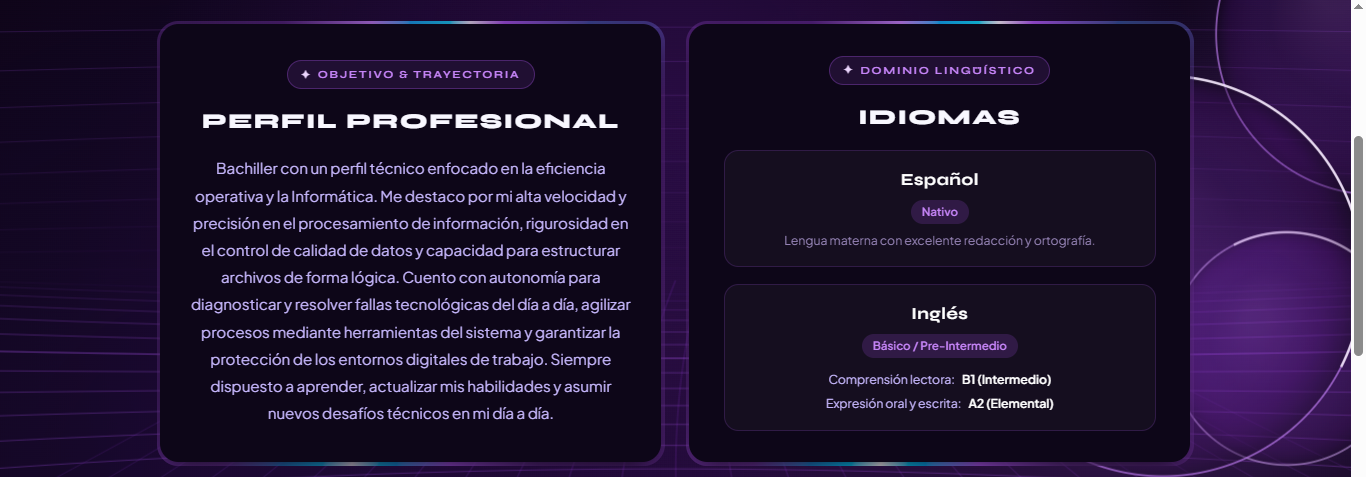
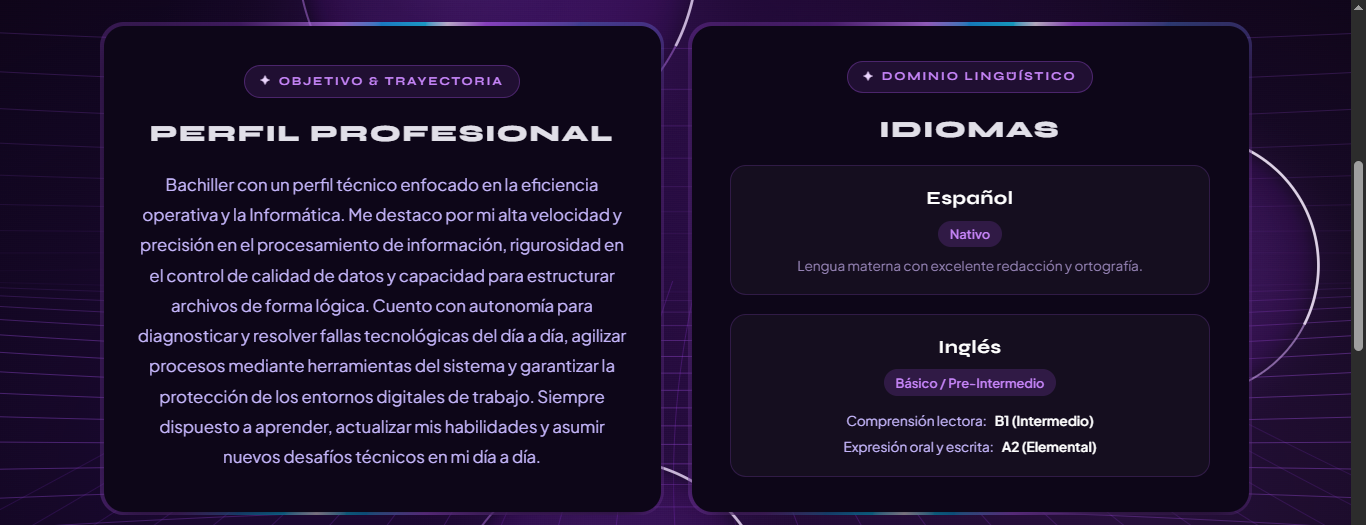
feat: agregar boton de LinkedIn en portfolio y CV, y quitar boton duplicado de descargar en CV

diff --git a/cv.html b/cv.html
@@ -91,6 +91,12 @@
             </svg>
             <span>github.com/thiago-quinteros</span>
           </a>
+          <a href="https://www.linkedin.com/in/thiago-quinteros-07b384378/" class="contact-item" title="Ver perfil de LinkedIn" target="_blank" rel="noopener noreferrer">
+            <svg class="icon-svg" viewBox="0 0 24 24" fill="currentColor">
+              <path d="M19 3a2 2 0 0 1 2 2v14a2 2 0 0 1-2 2H5a2 2 0 0 1-2-2V5a2 2 0 0 1 2-2h14m-.5 15.5v-5.3a3.26 3.26 0 0 0-3.26-3.26c-.85 0-1.84.52-2.28 1.3v-1.11h-2.79v8.37h2.79v-4.93c0-.77.62-1.4 1.39-1.4a1.4 1.4 0 0 1 1.4 1.4v4.93h2.75M6.46 10.9v8.37H9.2V10.9H6.46M7.83 6.45a1.66 1.66 0 0 0-1.66 1.66 1.66 1.66 0 0 0 1.66 1.66 1.66 1.66 0 0 0 1.66-1.66 1.66 1.66 0 0 0-1.66-1.66Z"/>
+            </svg>
+            <span>linkedin.com/in/thiago-quinteros</span>
+          </a>
           <a href="mailto:thiagoqfacultad@gmail.com" class="contact-item" title="Enviar correo">
             <svg class="icon-svg" viewBox="0 0 24 24" fill="none" stroke="currentColor" stroke-width="2" stroke-linecap="round" stroke-linejoin="round">
               <rect width="20" height="16" x="2" y="4" rx="2"></rect>
@@ -99,15 +105,6 @@
             <span>thiagoqfacultad@gmail.com</span>
           </a>
         </div>
-        <!-- Botón funcional y visible para descargar el CV en PDF -->
-        <button onclick="window.print()" class="btn-header-pdf" title="Descargar este Currículum en PDF">
-          <svg class="icon-svg" style="color: #ffffff; width: 12px; height: 12px;" viewBox="0 0 24 24" fill="none" stroke="currentColor" stroke-width="2" stroke-linecap="round" stroke-linejoin="round">
-            <path d="M21 15v4a2 2 0 0 1-2 2H5a2 2 0 0 1-2-2v-4"></path>
-            <polyline points="7 10 12 15 17 10"></polyline>
-            <line x1="12" y1="15" x2="12" y2="3"></line>
-          </svg>
-          <span>Descargar PDF</span>
-        </button>
       </div>
     </header>
 

diff --git a/index.html b/index.html
@@ -167,6 +167,13 @@
               <span>GitHub</span>
             </a>
 
+            <a href="https://www.linkedin.com/in/thiago-quinteros-07b384378/" target="_blank" rel="noopener noreferrer" class="btn-secondary" title="Ver perfil de LinkedIn de Thiago Quinteros">
+              <svg class="btn-icon" viewBox="0 0 24 24" fill="currentColor">
+                <path d="M19 3a2 2 0 0 1 2 2v14a2 2 0 0 1-2 2H5a2 2 0 0 1-2-2V5a2 2 0 0 1 2-2h14m-.5 15.5v-5.3a3.26 3.26 0 0 0-3.26-3.26c-.85 0-1.84.52-2.28 1.3v-1.11h-2.79v8.37h2.79v-4.93c0-.77.62-1.4 1.39-1.4a1.4 1.4 0 0 1 1.4 1.4v4.93h2.75M6.46 10.9v8.37H9.2V10.9H6.46M7.83 6.45a1.66 1.66 0 0 0-1.66 1.66 1.66 1.66 0 0 0 1.66 1.66 1.66 1.66 0 0 0 1.66-1.66 1.66 1.66 0 0 0-1.66-1.66Z"/>
+              </svg>
+              <span>LinkedIn</span>
+            </a>
+
             <a href="mailto:thiagoqfacultad@gmail.com" class="btn-secondary" title="Enviar correo a Thiago Quinteros">
               <svg class="btn-icon" viewBox="0 0 24 24" fill="none" stroke="currentColor" stroke-width="2" stroke-linecap="round" stroke-linejoin="round">
                 <rect width="20" height="16" x="2" y="4" rx="2"></rect>
